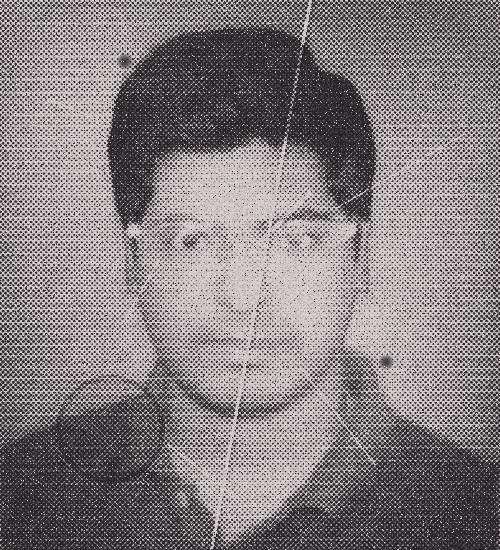
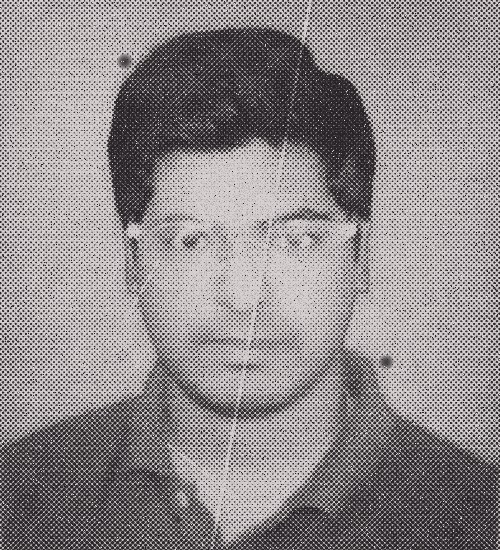
About: less wear on the 1st photo, a little on the 3rd

Changed region(s): [[0.0, 0.0, 1.0, 1.0], [0.45, 0.5255, 0.75, 0.8036], [0.72, 0.8036, 0.75, 0.8655]]

diff --git a/index.html b/index.html
@@ -904,7 +904,7 @@
             <div class="abSticky" style="left: 44px; top: 140px; width: 230px; transform: rotate(-3deg)">I started by moving furniture around on a screen. Now I move buttons around on one.</div>
             <!-- big: sitting by the curtain, photocopied -->
             <figure class="abCopy" style="left: 388px; top: 112px; transform: rotate(3deg)">
-              <div class="tear"><img src="assets/about/copy-sit2.jpg?v=2" alt="Gandhar in glasses, a passport photo, as a grainy photocopy" width="246" height="271"></div>
+              <div class="tear"><img src="assets/about/copy-sit2.jpg?v=3" alt="Gandhar in glasses, a passport photo, as a grainy photocopy" width="246" height="271"></div>
             </figure>
             <span class="abTape" style="left: 476px; top: 100px; transform: rotate(-5deg)"></span>
             <div class="abNote" style="left: 440px; top: 404px; width: 200px; transform: rotate(-2deg)">that’s me!</div>
@@ -919,7 +919,7 @@
             <span class="abTape" style="left: 490px; top: 510px; width: 64px; transform: rotate(12deg)"></span>
             <!-- small, in the corner: standing in an empty room -->
             <figure class="abCopy" style="left: 486px; top: 768px; transform: rotate(5deg)">
-              <div class="tear"><img src="assets/about/copy-me.jpg?v=4" alt="Gandhar smiling, a selfie, as a halftone photocopy" width="158" height="158"></div>
+              <div class="tear"><img src="assets/about/copy-me.jpg?v=5" alt="Gandhar smiling, a selfie, as a halftone photocopy" width="158" height="158"></div>
             </figure>
             <span class="abTape" style="left: 520px; top: 758px; width: 70px; transform: rotate(8deg)"></span>
            <!-- the last line, just written on the page -->
